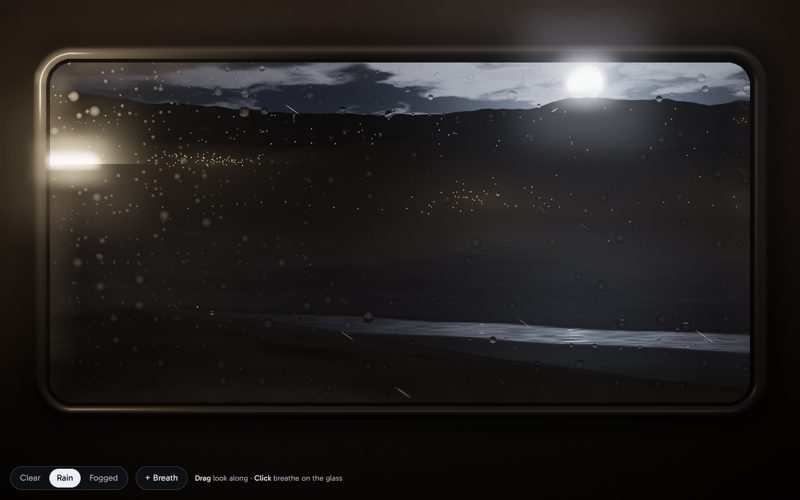
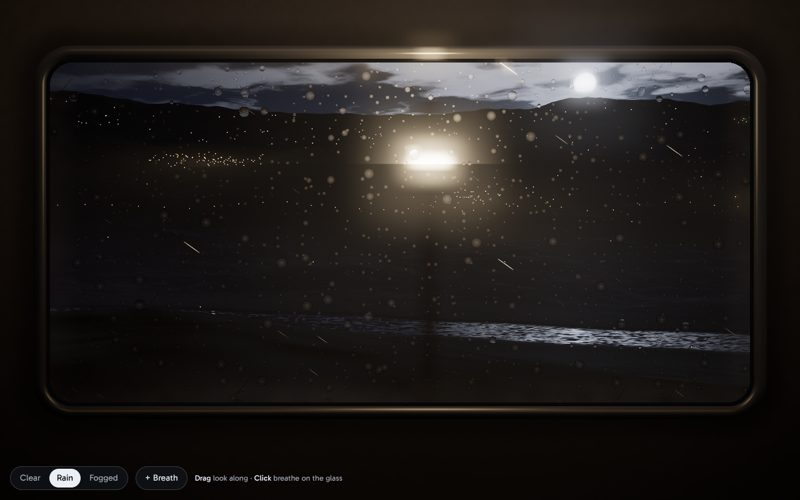
Night viaduct gallery: final Window seat and Glacier bore
Claude-Session: https://claude.ai/code/session_01N72DMg7ynYNqxkodxPV1WE

diff --git a/viaduct/protos/index.html b/viaduct/protos/index.html
@@ -34,7 +34,7 @@ a.card:hover { border-color: var(--amber); }
 <h1>Night viaduct prototypes</h1>
 <p class="lead">34 concepts. Cards marked Open are playable; three.js pages need a GPU and take a moment to start.</p>
 <a class="back" href="../">Back to Night viaduct</a>
-<section><h2>In the toy</h2><p class="sub">The live Night viaduct scenes.</p><div class="grid"><a class="card" href="../?scene=port"><img src="img/v-port-w.jpg" alt="" loading="lazy"><b>Port</b><span class="play">Open</span><span class="note">Rail causeway into a fogged industrial port. Tap water, tap sky, drag the searchlight.</span></a><a class="card" href="../?scene=port&tune"><img src="img/tune-2.jpg" alt="" loading="lazy"><b>Port, tuning desk</b><span class="play">Open</span><span class="note">The same scene with every look knob.</span></a><a class="card" href="../?scene=pass"><img src="img/v-pass-w.jpg" alt="" loading="lazy"><b>Pass</b><span class="play">Open</span><span class="note">Lone viaduct over a gorge under wedge peaks. Parked.</span></a></div></section><section><h2>New three.js set</h2><p class="sub">Six fresh themes at Port quality. Lunar, Window seat and Glacier may still change.</p><div class="grid"><a class="card" href="lava.html"><img src="img/hq-lava-w.jpg" alt="" loading="lazy"><b>Ember field</b><span class="play">Open</span><span class="note">A dark viaduct over a cooling lava field; red uplight, heat shimmer.</span></a><a class="card" href="biolume.html"><img src="img/hq-biolume-w.jpg" alt="" loading="lazy"><b>Glow bay</b><span class="play">Open</span><span class="note">Bioluminescent bay; trains send a cyan pulse along the piers.</span></a><a class="card" href="under.html"><img src="img/hq-under-w.jpg" alt="" loading="lazy"><b>Under the surface</b><span class="play">Open</span><span class="note">From underwater: sunken arches, the mirror surface, a train above.</span></a><a class="card" href="lunar.html"><img src="img/hq-lunar-w.jpg" alt="" loading="lazy"><b>Earthrise span</b><span class="play">Open</span><span class="note">A lattice span over a lunar crater; Earth as the key light.</span></a><a class="card" href="window.html"><img src="img/hq-window-w.jpg" alt="" loading="lazy"><b>Window seat</b><span class="play">Open</span><span class="note">From inside a carriage on a high viaduct; rain and breath on glass.</span></a><a class="card" href="icecave.html"><img src="img/hq-icecave-w.jpg" alt="" loading="lazy"><b>Glacier bore</b><span class="play">Open</span><span class="note">A viaduct through a translucent ice tunnel; trains flood it amber.</span></a></div></section><section><h2>2D prototypes</h2><p class="sub">Playable canvas sketches from the first rounds.</p><div class="grid"><a class="card" href="proto-overpass.html"><img src="img/po-w-1.jpg" alt="" loading="lazy"><b>Overpass</b><span class="play">Open</span><span class="note">Under the deck; light bars fall through as trains pass.</span></a><a class="card" href="proto-rings.html"><img src="img/pr-w-1.jpg" alt="" loading="lazy"><b>Rings</b><span class="play">Open</span><span class="note">Arches close into rings in still water; ripples and moonrise.</span></a><a class="card" href="proto-urban.html"><img src="img/pu-w-1.jpg" alt="" loading="lazy"><b>Urban</b><span class="play">Open</span><span class="note">Perspective rail on T piers over a sodium street.</span></a><a class="card" href="proto-mountain.html"><img src="img/pm-w-1.jpg" alt="" loading="lazy"><b>Mountain</b><span class="play">Open</span><span class="note">Thin deck over a gorge; drag the moon.</span></a><a class="card" href="proto-port.html"><img src="img/pp-w-1.jpg" alt="" loading="lazy"><b>Port</b><span class="play">Open</span><span class="note">Causeway into an industrial complex; floodlights wake in a wave.</span></a></div></section><section><h2>Wave 3, rejected</h2><p class="sub">Too close to themes already seen. Kept for reference.</p><div class="grid"><a class="card" href="proto-tide.html"><img src="img/tide-w-1.jpg" alt="" loading="lazy"><b>Tide arches</b><span class="play">Open</span><span class="note">Arches on wet sand; a foam line rolls in.</span></a><a class="card" href="proto-fogspine.html"><img src="img/fog-w-1.jpg" alt="" loading="lazy"><b>Fog spine</b><span class="play">Open</span><span class="note">Piers stride into fog; lamp orbs recede.</span></a><a class="card" href="proto-salt.html"><img src="img/salt-w-1.jpg" alt="" loading="lazy"><b>Salt mirror</b><span class="play">Open</span><span class="note">A fine line across a salt pan under the Milky Way.</span></a><a class="card" href="proto-soffit.html"><img src="img/sof-w-1.jpg" alt="" loading="lazy"><b>Under the span</b><span class="play">Open</span><span class="note">Looking up at an overpass soffit. Stopped half way.</span></a><a class="card" href="proto-metro.html"><img src="img/met-w-1.jpg" alt="" loading="lazy"><b>Metro</b><span class="play">Open</span><span class="note">Elevated metro between apartment slabs. Stopped half way.</span></a><a class="card" href="proto-aurora.html"><img src="img/aur-w-1.jpg" alt="" loading="lazy"><b>Aurora truss</b><span class="play">Open</span><span class="note">Iron truss over a frozen lake. Stopped half way.</span></a></div></section><section><h2>Sketches</h2><p class="sub">Still blockouts; not playable.</p><div class="grid"><div class="card"><img src="img/concept2-a-w.jpg" alt="" loading="lazy"><b>Valley</b><span class="still">Still</span><span class="note">Silhouette arches, mist, a headlight in snow.</span></div><div class="card"><img src="img/concept2-b-w.jpg" alt="" loading="lazy"><b>Overpass</b><span class="still">Still</span><span class="note">Under the deck, round 1.</span></div><div class="card"><img src="img/concept2-c-w.jpg" alt="" loading="lazy"><b>Rings</b><span class="still">Still</span><span class="note">Arches and reflections, round 1.</span></div><div class="card"><img src="img/r3-u-w.jpg" alt="" loading="lazy"><b>Urban</b><span class="still">Still</span><span class="note">Rail on T piers, round 3.</span></div><div class="card"><img src="img/r3-m-w.jpg" alt="" loading="lazy"><b>Mountain</b><span class="still">Still</span><span class="note">Gorge and faceted peaks, round 3.</span></div><div class="card"><img src="img/r3-i-w.jpg" alt="" loading="lazy"><b>Port</b><span class="still">Still</span><span class="note">Causeway into a complex, round 3.</span></div><div class="card"><img src="img/r4-cloud-w.jpg" alt="" loading="lazy"><b>Cloud sea</b><span class="still">Still</span><span class="note">The deck rides above an inversion.</span></div><div class="card"><img src="img/r4-storm-w.jpg" alt="" loading="lazy"><b>Storm</b><span class="still">Still</span><span class="note">Sea cove in one lightning frame.</span></div><div class="card"><img src="img/r4-trestle-w.jpg" alt="" loading="lazy"><b>Trestle</b><span class="still">Still</span><span class="note">Freight across a giant desert moon.</span></div><div class="card"><img src="img/r4-aerial-w.jpg" alt="" loading="lazy"><b>Aerial</b><span class="still">Still</span><span class="note">Flyovers from above with light trails.</span></div><div class="card"><img src="img/r4-vault-w.jpg" alt="" loading="lazy"><b>Vault</b><span class="still">Still</span><span class="note">One-point view down the arches.</span></div><div class="card"><img src="img/r4-wire-w.jpg" alt="" loading="lazy"><b>Wire</b><span class="still">Still</span><span class="note">The viaduct exists only where light passes.</span></div><div class="card"><img src="img/three-port-w.jpg" alt="" loading="lazy"><b>Port, first three.js</b><span class="still">Still</span><span class="note">Before the wide reframe.</span></div><div class="card"><img src="img/three-mountain-w.jpg" alt="" loading="lazy"><b>Mountain, first three.js</b><span class="still">Still</span><span class="note">Crystal peaks; replaced by the wedge wall.</span></div></div></section>
+<section><h2>In the toy</h2><p class="sub">The live Night viaduct scenes.</p><div class="grid"><a class="card" href="../?scene=port"><img src="img/v-port-w.jpg" alt="" loading="lazy"><b>Port</b><span class="play">Open</span><span class="note">Rail causeway into a fogged industrial port. Tap water, tap sky, drag the searchlight.</span></a><a class="card" href="../?scene=port&tune"><img src="img/tune-2.jpg" alt="" loading="lazy"><b>Port, tuning desk</b><span class="play">Open</span><span class="note">The same scene with every look knob.</span></a><a class="card" href="../?scene=pass"><img src="img/v-pass-w.jpg" alt="" loading="lazy"><b>Pass</b><span class="play">Open</span><span class="note">Lone viaduct over a gorge under wedge peaks. Parked.</span></a></div></section><section><h2>New three.js set</h2><p class="sub">Six fresh themes at Port quality.</p><div class="grid"><a class="card" href="lava.html"><img src="img/hq-lava-w.jpg" alt="" loading="lazy"><b>Ember field</b><span class="play">Open</span><span class="note">A dark viaduct over a cooling lava field; red uplight, heat shimmer.</span></a><a class="card" href="biolume.html"><img src="img/hq-biolume-w.jpg" alt="" loading="lazy"><b>Glow bay</b><span class="play">Open</span><span class="note">Bioluminescent bay; trains send a cyan pulse along the piers.</span></a><a class="card" href="under.html"><img src="img/hq-under-w.jpg" alt="" loading="lazy"><b>Under the surface</b><span class="play">Open</span><span class="note">From underwater: sunken arches, the mirror surface, a train above.</span></a><a class="card" href="lunar.html"><img src="img/hq-lunar-w.jpg" alt="" loading="lazy"><b>Earthrise span</b><span class="play">Open</span><span class="note">A lattice span over a lunar crater; Earth as the key light.</span></a><a class="card" href="window.html"><img src="img/hq-window-w.jpg" alt="" loading="lazy"><b>Window seat</b><span class="play">Open</span><span class="note">From inside a carriage on a high viaduct; rain and breath on glass.</span></a><a class="card" href="icecave.html"><img src="img/hq-icecave-w.jpg" alt="" loading="lazy"><b>Glacier bore</b><span class="play">Open</span><span class="note">A viaduct through a translucent ice tunnel; trains flood it amber.</span></a></div></section><section><h2>2D prototypes</h2><p class="sub">Playable canvas sketches from the first rounds.</p><div class="grid"><a class="card" href="proto-overpass.html"><img src="img/po-w-1.jpg" alt="" loading="lazy"><b>Overpass</b><span class="play">Open</span><span class="note">Under the deck; light bars fall through as trains pass.</span></a><a class="card" href="proto-rings.html"><img src="img/pr-w-1.jpg" alt="" loading="lazy"><b>Rings</b><span class="play">Open</span><span class="note">Arches close into rings in still water; ripples and moonrise.</span></a><a class="card" href="proto-urban.html"><img src="img/pu-w-1.jpg" alt="" loading="lazy"><b>Urban</b><span class="play">Open</span><span class="note">Perspective rail on T piers over a sodium street.</span></a><a class="card" href="proto-mountain.html"><img src="img/pm-w-1.jpg" alt="" loading="lazy"><b>Mountain</b><span class="play">Open</span><span class="note">Thin deck over a gorge; drag the moon.</span></a><a class="card" href="proto-port.html"><img src="img/pp-w-1.jpg" alt="" loading="lazy"><b>Port</b><span class="play">Open</span><span class="note">Causeway into an industrial complex; floodlights wake in a wave.</span></a></div></section><section><h2>Wave 3, rejected</h2><p class="sub">Too close to themes already seen. Kept for reference.</p><div class="grid"><a class="card" href="proto-tide.html"><img src="img/tide-w-1.jpg" alt="" loading="lazy"><b>Tide arches</b><span class="play">Open</span><span class="note">Arches on wet sand; a foam line rolls in.</span></a><a class="card" href="proto-fogspine.html"><img src="img/fog-w-1.jpg" alt="" loading="lazy"><b>Fog spine</b><span class="play">Open</span><span class="note">Piers stride into fog; lamp orbs recede.</span></a><a class="card" href="proto-salt.html"><img src="img/salt-w-1.jpg" alt="" loading="lazy"><b>Salt mirror</b><span class="play">Open</span><span class="note">A fine line across a salt pan under the Milky Way.</span></a><a class="card" href="proto-soffit.html"><img src="img/sof-w-1.jpg" alt="" loading="lazy"><b>Under the span</b><span class="play">Open</span><span class="note">Looking up at an overpass soffit. Stopped half way.</span></a><a class="card" href="proto-metro.html"><img src="img/met-w-1.jpg" alt="" loading="lazy"><b>Metro</b><span class="play">Open</span><span class="note">Elevated metro between apartment slabs. Stopped half way.</span></a><a class="card" href="proto-aurora.html"><img src="img/aur-w-1.jpg" alt="" loading="lazy"><b>Aurora truss</b><span class="play">Open</span><span class="note">Iron truss over a frozen lake. Stopped half way.</span></a></div></section><section><h2>Sketches</h2><p class="sub">Still blockouts; not playable.</p><div class="grid"><div class="card"><img src="img/concept2-a-w.jpg" alt="" loading="lazy"><b>Valley</b><span class="still">Still</span><span class="note">Silhouette arches, mist, a headlight in snow.</span></div><div class="card"><img src="img/concept2-b-w.jpg" alt="" loading="lazy"><b>Overpass</b><span class="still">Still</span><span class="note">Under the deck, round 1.</span></div><div class="card"><img src="img/concept2-c-w.jpg" alt="" loading="lazy"><b>Rings</b><span class="still">Still</span><span class="note">Arches and reflections, round 1.</span></div><div class="card"><img src="img/r3-u-w.jpg" alt="" loading="lazy"><b>Urban</b><span class="still">Still</span><span class="note">Rail on T piers, round 3.</span></div><div class="card"><img src="img/r3-m-w.jpg" alt="" loading="lazy"><b>Mountain</b><span class="still">Still</span><span class="note">Gorge and faceted peaks, round 3.</span></div><div class="card"><img src="img/r3-i-w.jpg" alt="" loading="lazy"><b>Port</b><span class="still">Still</span><span class="note">Causeway into a complex, round 3.</span></div><div class="card"><img src="img/r4-cloud-w.jpg" alt="" loading="lazy"><b>Cloud sea</b><span class="still">Still</span><span class="note">The deck rides above an inversion.</span></div><div class="card"><img src="img/r4-storm-w.jpg" alt="" loading="lazy"><b>Storm</b><span class="still">Still</span><span class="note">Sea cove in one lightning frame.</span></div><div class="card"><img src="img/r4-trestle-w.jpg" alt="" loading="lazy"><b>Trestle</b><span class="still">Still</span><span class="note">Freight across a giant desert moon.</span></div><div class="card"><img src="img/r4-aerial-w.jpg" alt="" loading="lazy"><b>Aerial</b><span class="still">Still</span><span class="note">Flyovers from above with light trails.</span></div><div class="card"><img src="img/r4-vault-w.jpg" alt="" loading="lazy"><b>Vault</b><span class="still">Still</span><span class="note">One-point view down the arches.</span></div><div class="card"><img src="img/r4-wire-w.jpg" alt="" loading="lazy"><b>Wire</b><span class="still">Still</span><span class="note">The viaduct exists only where light passes.</span></div><div class="card"><img src="img/three-port-w.jpg" alt="" loading="lazy"><b>Port, first three.js</b><span class="still">Still</span><span class="note">Before the wide reframe.</span></div><div class="card"><img src="img/three-mountain-w.jpg" alt="" loading="lazy"><b>Mountain, first three.js</b><span class="still">Still</span><span class="note">Crystal peaks; replaced by the wedge wall.</span></div></div></section>
 </main>
 </body>
 </html>

diff --git a/viaduct/protos/icecave.html b/viaduct/protos/icecave.html
@@ -140,15 +140,18 @@ vec3 inscatter(vec3 P) {
 }
 // The aurora: slow green curtains seen through the thin roof.
 vec3 aurora(vec3 P) {
-  float b = fbm(vec2(P.x * 0.006 + uTime * 0.02, P.z * 0.002 - uTime * 0.01));
-  float c = smoothstep(0.35, 0.75, sin(P.x * 0.012 + P.z * 0.004 + b * 6.0 + uTime * 0.15) * 0.5 + 0.5);
+  float b = fbm(vec2(P.x * 0.02 + uTime * 0.02, P.z * 0.008 - uTime * 0.01));
+  // Narrow folds along the bore read as curtains through the ice.
+  float c = smoothstep(0.55, 0.95, sin(P.x * 0.11 + P.z * 0.045 + b * 7.0 + uTime * 0.15) * 0.5 + 0.5);
+  c *= 0.5 + 0.5 * smoothstep(0.3, 0.7, fbm(vec2(P.z * 0.004 - uTime * 0.03, P.x * 0.01)));
   vec3 col = mix(vec3(0.1, 1.0, 0.45), vec3(0.5, 0.25, 1.0), smoothstep(0.65, 0.9, b));
   return col * c * (0.4 + 0.8 * b);
 }
 vec3 haze(vec3 c, vec3 P) {
   float d = length(P - cameraPosition);
   float f = 1.0 - exp(-d * 0.0028);
-  return mix(c, uHaze, f) + inscatter(P);
+  vec3 hc = uHaze + aurora(P + vec3(0.0, 40.0, 0.0)) * uAur * 0.006;
+  return mix(c, hc, f) + inscatter(P);
 }`;
 
 const U = {
@@ -247,7 +250,7 @@ const U = {
       // Grazing views cross more ice and glow more; this shows the relief.
       float graze = pow(1.0 - max(dot(N, V), 0.0), 2.0);
       c *= (0.55 + 1.3 * graze) * (0.8 + 0.4 * rim);
-      c += aurora(vP) * uAur * roof * (0.35 + 0.65 * thin) * 0.22;
+      c += aurora(vP) * uAur * smoothstep(-0.0, -0.6, N0.y) * (0.35 + 0.65 * thin) * 0.75 * strata;
       vec3 dirIn = refract(-V, N, 0.76);
       for (int i = 0; i < ${NL}; i++) {
         if (uLP[i].w <= 0.0) continue;

diff --git a/viaduct/protos/window.html b/viaduct/protos/window.html
@@ -150,7 +150,7 @@ uniform vec4 uGC[${NG}];
 // Haze takes the sky colour, warmed over each town.
 vec3 hazeCol(vec3 d, vec3 P) {
   vec3 c = skyCol(normalize(vec3(d.x, max(d.y, 0.0) * 0.4 + 0.02, d.z))) * 0.7;
-  for (int i = 0; i < ${NG}; i++) c += uGC[i].rgb * uGP[i].w * 0.7 * exp(-length(P.xz - uGP[i].xz) / 150.0);
+  for (int i = 0; i < ${NG}; i++) c += uGC[i].rgb * uGP[i].w * 0.3 * exp(-length(P.xz - uGP[i].xz) / 110.0);
   return c;
 }`;
 
@@ -569,11 +569,13 @@ const glass = new THREE.Mesh(new THREE.PlaneGeometry(2, 2), new THREE.ShaderMate
       vec3 sharp = texture2D(tOut, uv).rgb;
       vec3 blur = vec3(0.0);
       float R = 0.004 + 0.022 * fog;
-      for (int i = 0; i < 14; i++) {
-        float a = float(i) * 2.39996, r = sqrt((float(i) + 0.5) / 14.0) * R;
+      // A per-pixel turn of the spiral hides the tap pattern as grain.
+      float rot = 6.2832 * fract(52.9829189 * fract(dot(gl_FragCoord.xy, vec2(0.06711056, 0.00583715))));
+      for (int i = 0; i < 24; i++) {
+        float a = float(i) * 2.39996 + rot, r = sqrt((float(i) + 0.5) / 24.0) * R;
         blur += texture2D(tOut, uv + vec2(cos(a), sin(a)) * r / vec2(asp, 1.0)).rgb;
       }
-      blur /= 14.0;
+      blur /= 24.0;
       col = mix(sharp, blur, smoothstep(0.05, 0.55, fog));
       // Fog scatters light into a milky veil, warm from the room.
       vec3 veil = warm * 0.03 * roomG + blur * 1.1 + vec3(0.006, 0.007, 0.009);

diff --git a/.beans/stimming-3cmz--toy-night-viaduct.md b/.beans/stimming-3cmz--toy-night-viaduct.md
@@ -39,7 +39,7 @@ Night viaduct, restyled from an empty file. One toy; each viaduct is a scene cho
 - [ ] Sound
 - [ ] Checkpoint 2: Tom reviews motion and sound
 - [ ] Pass: parked by Tom 2026-11-04; Port first
-- [ ] Prototypes: Tom picks any to grow (Earthrise span, Window seat, Glacier bore may still change)
+- [ ] Prototypes: Tom picks any to grow (all six final in the gallery)
 - [ ] Menu Lab entry: icon and `toys.viaduct` hook kept as they are
 - [ ] QA Q1 to Q10 (docs/plans/README.md)
 - [ ] Record the session cost
